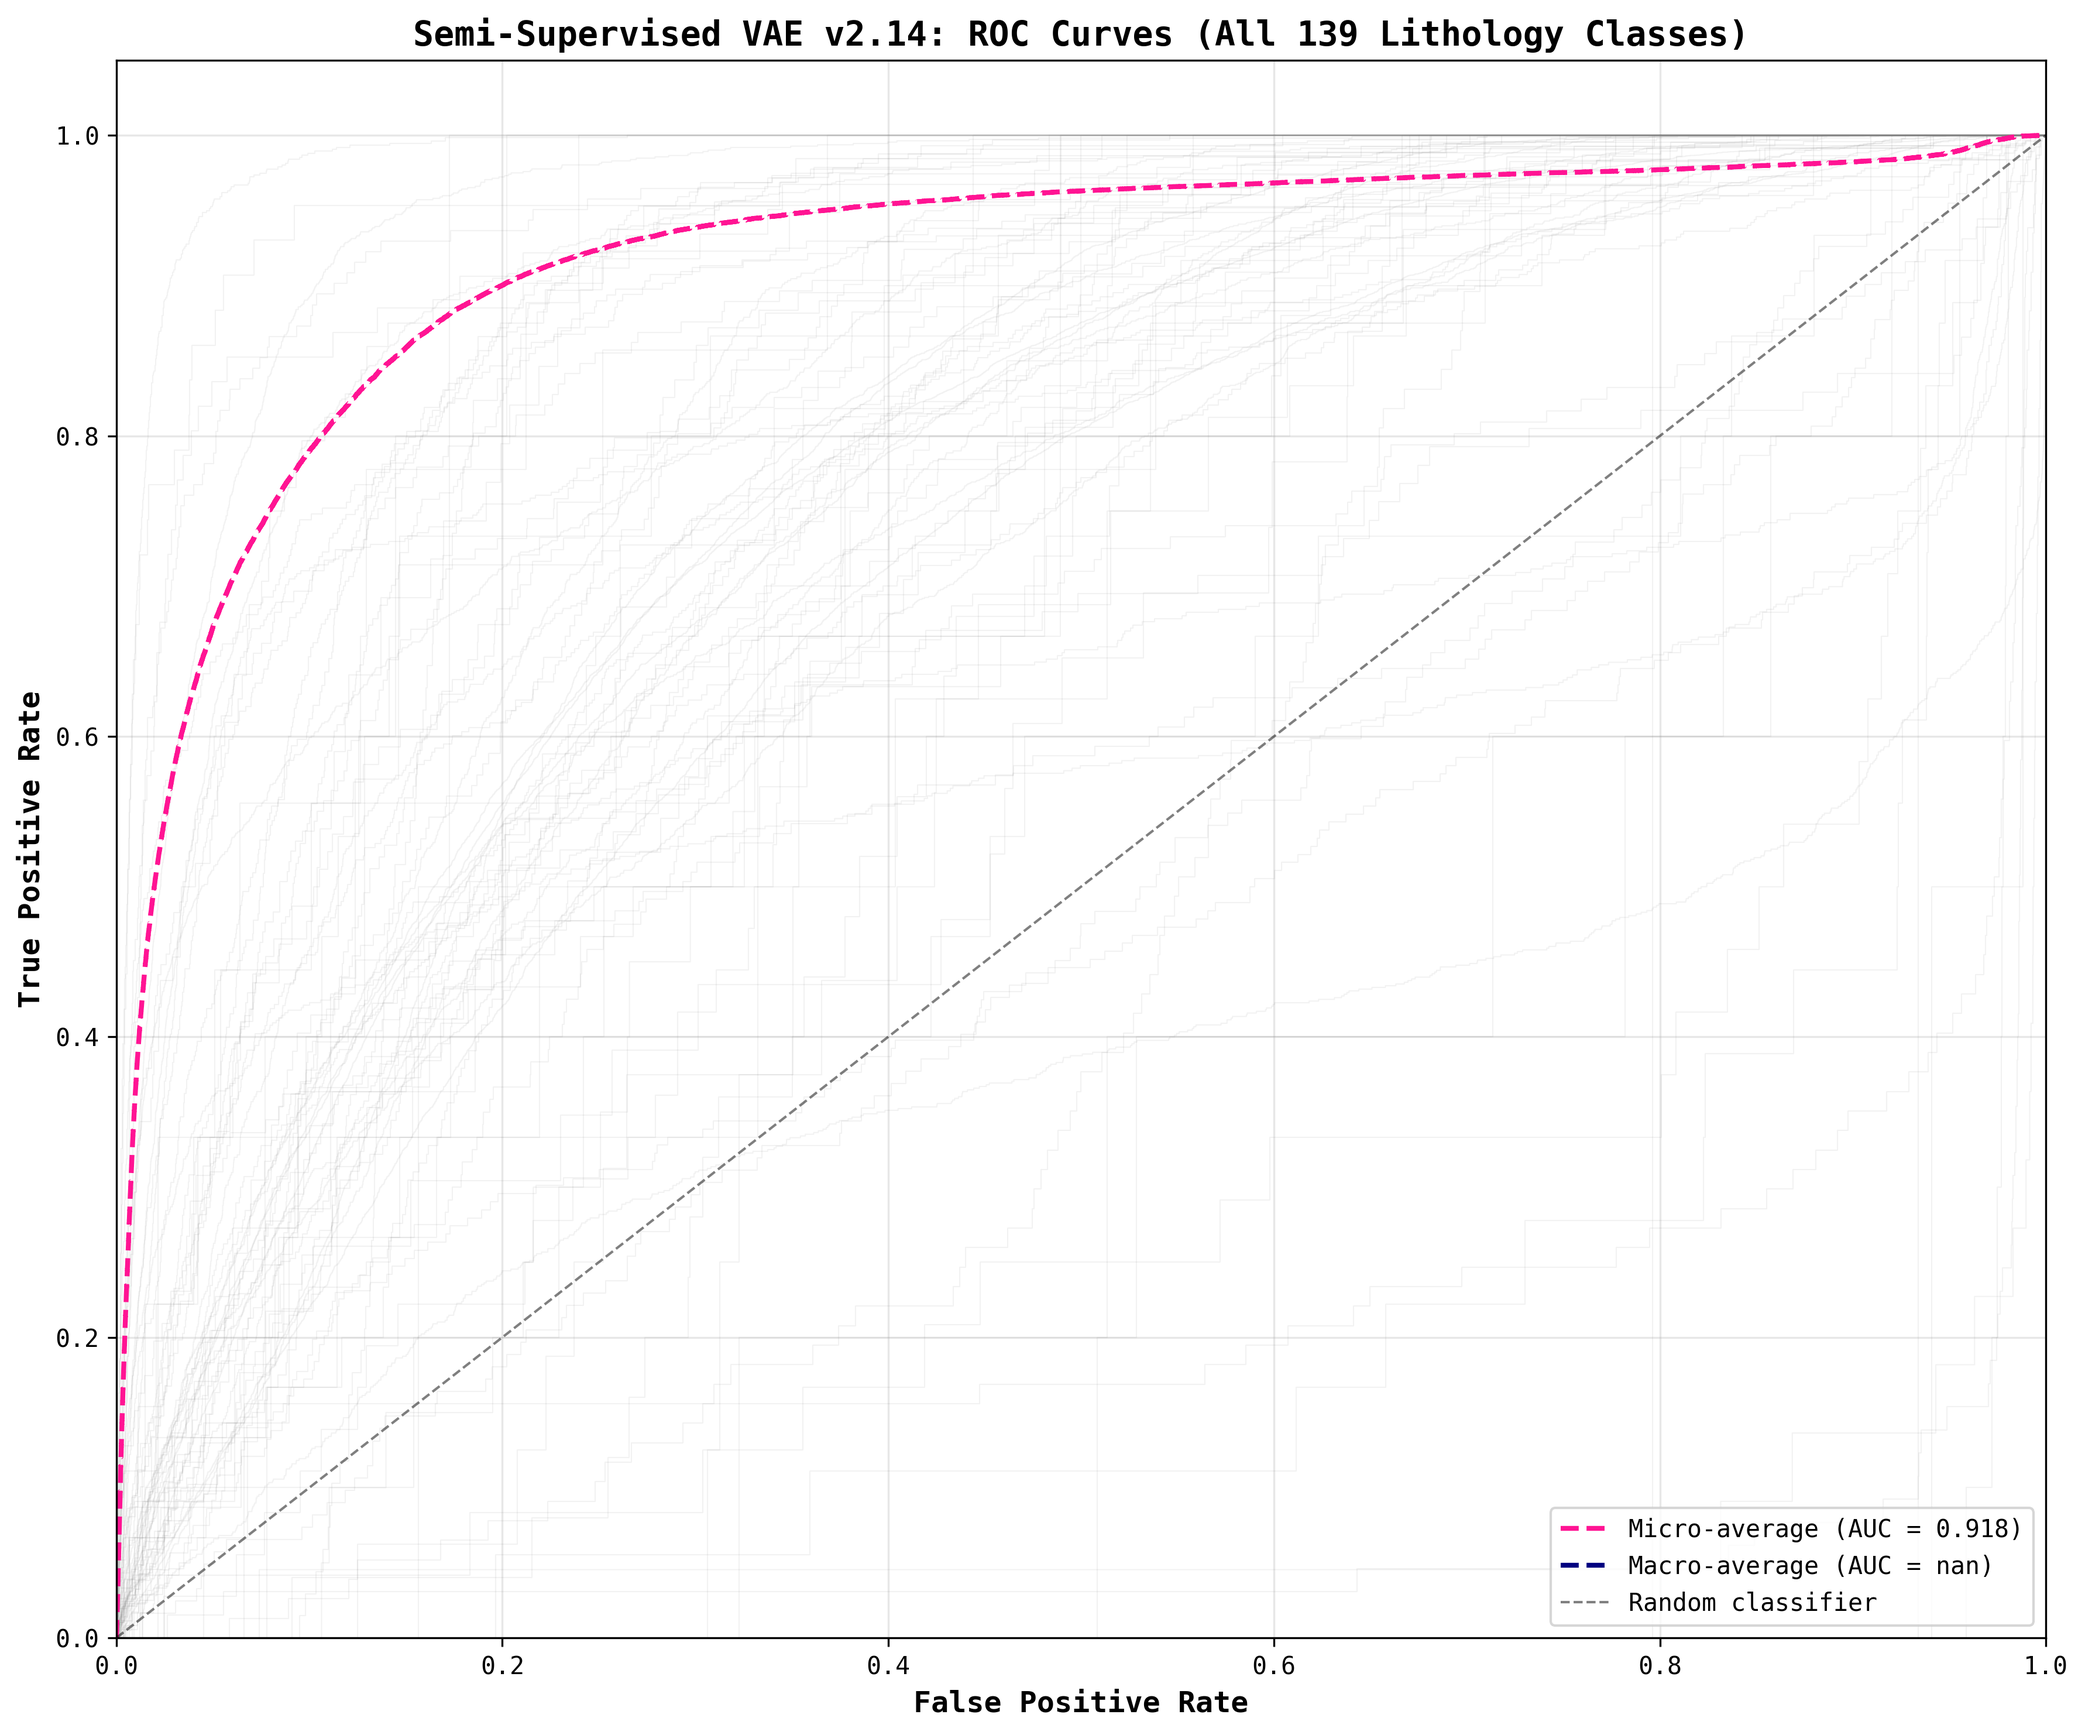
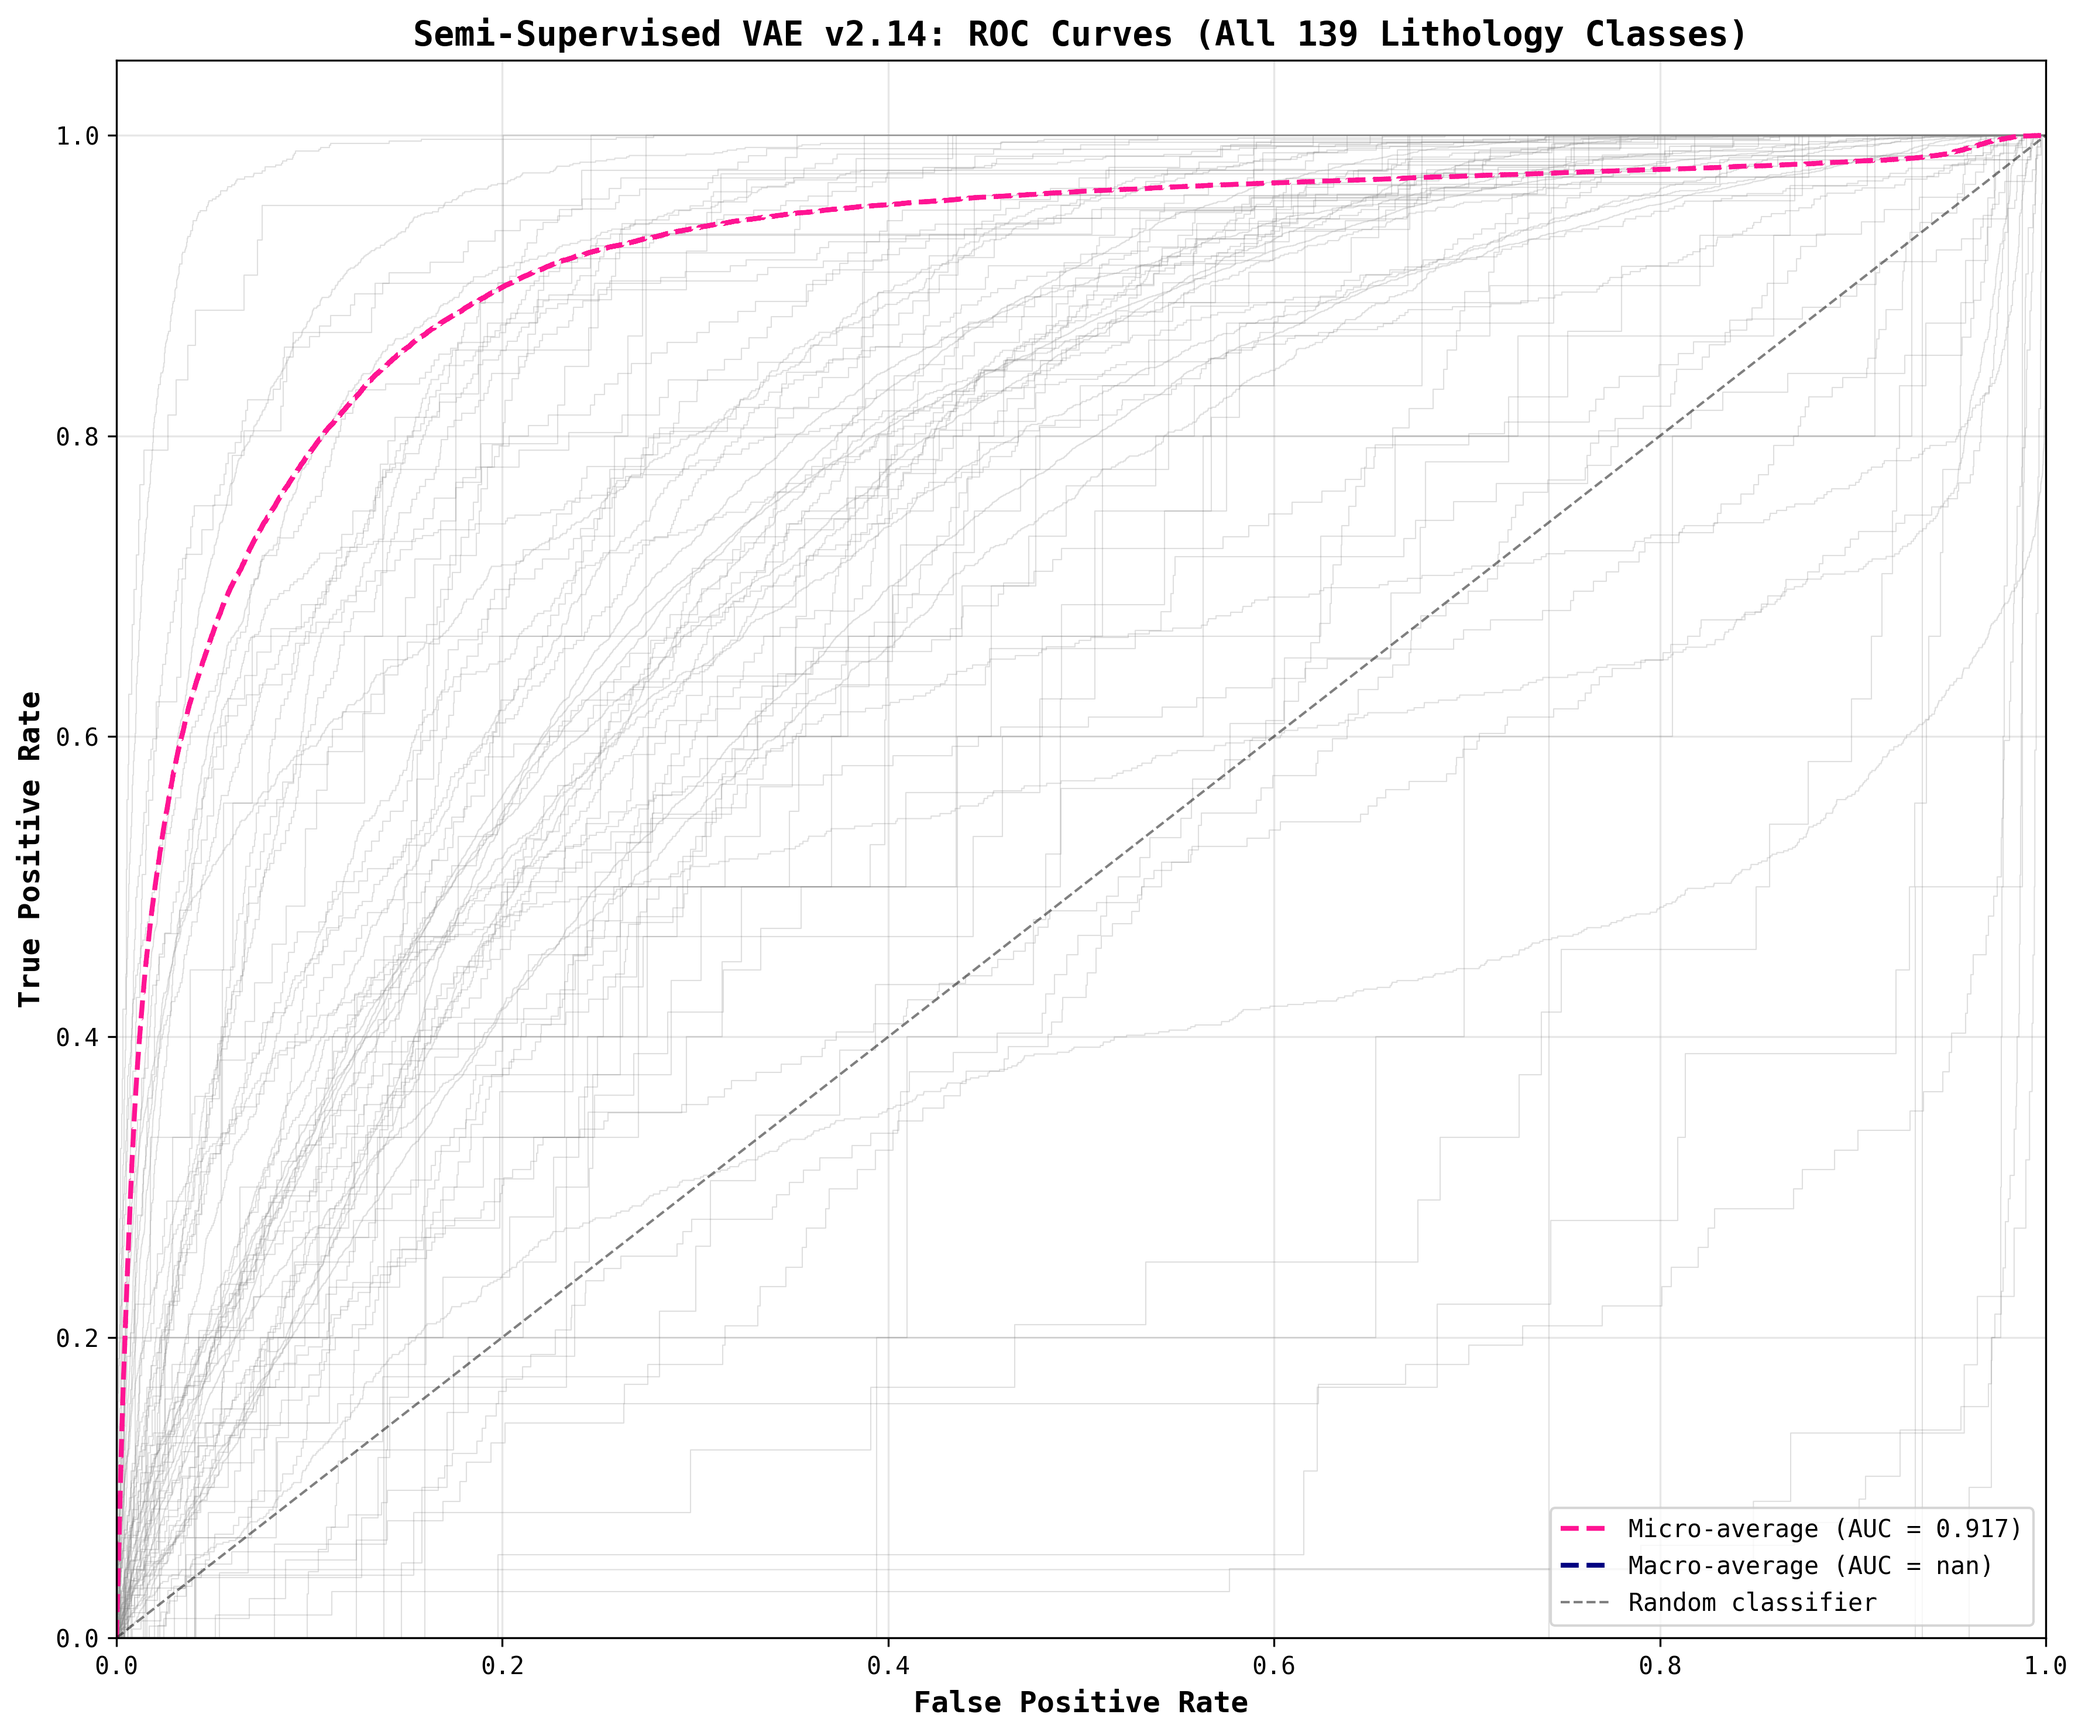
Make individual ROC curves darker for better visibility
Increased alpha from 0.1 to 0.25 for the 139 individual class curves
in the comprehensive ROC plot. Individual curves are now more visible
while still showing the overall distribution pattern.

🤖 Generated with [Claude Code](https://claude.com/claude-code)

Changed region(s): [[0.0312, 0.0621, 0.9658, 0.9312], [0.3427, 0.2173, 0.3738, 0.2483], [0.2492, 0.6518, 0.2804, 0.6829]]

diff --git a/plot_v2_14_roc_curves.py b/plot_v2_14_roc_curves.py
@@ -204,7 +204,7 @@ fig, ax = plt.subplots(figsize=(12, 10))
 
 # Plot all individual class ROC curves (semi-transparent)
 for i in range(n_classes):
-    ax.plot(fpr[i], tpr[i], alpha=0.1, linewidth=0.5, color='gray')
+    ax.plot(fpr[i], tpr[i], alpha=0.25, linewidth=0.5, color='gray')
 
 # Plot micro-average
 ax.plot(fpr["micro"], tpr["micro"],
